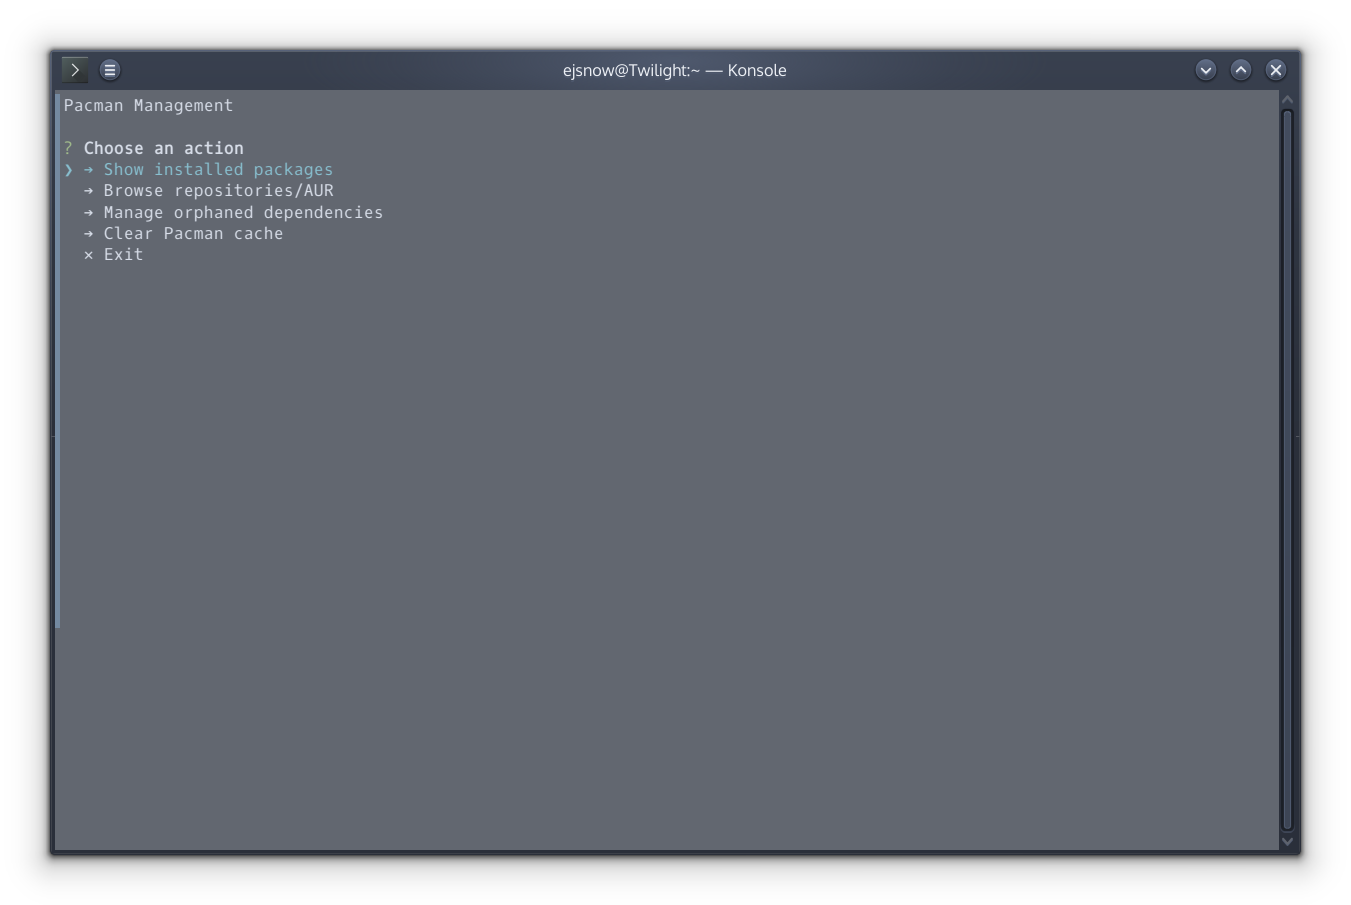
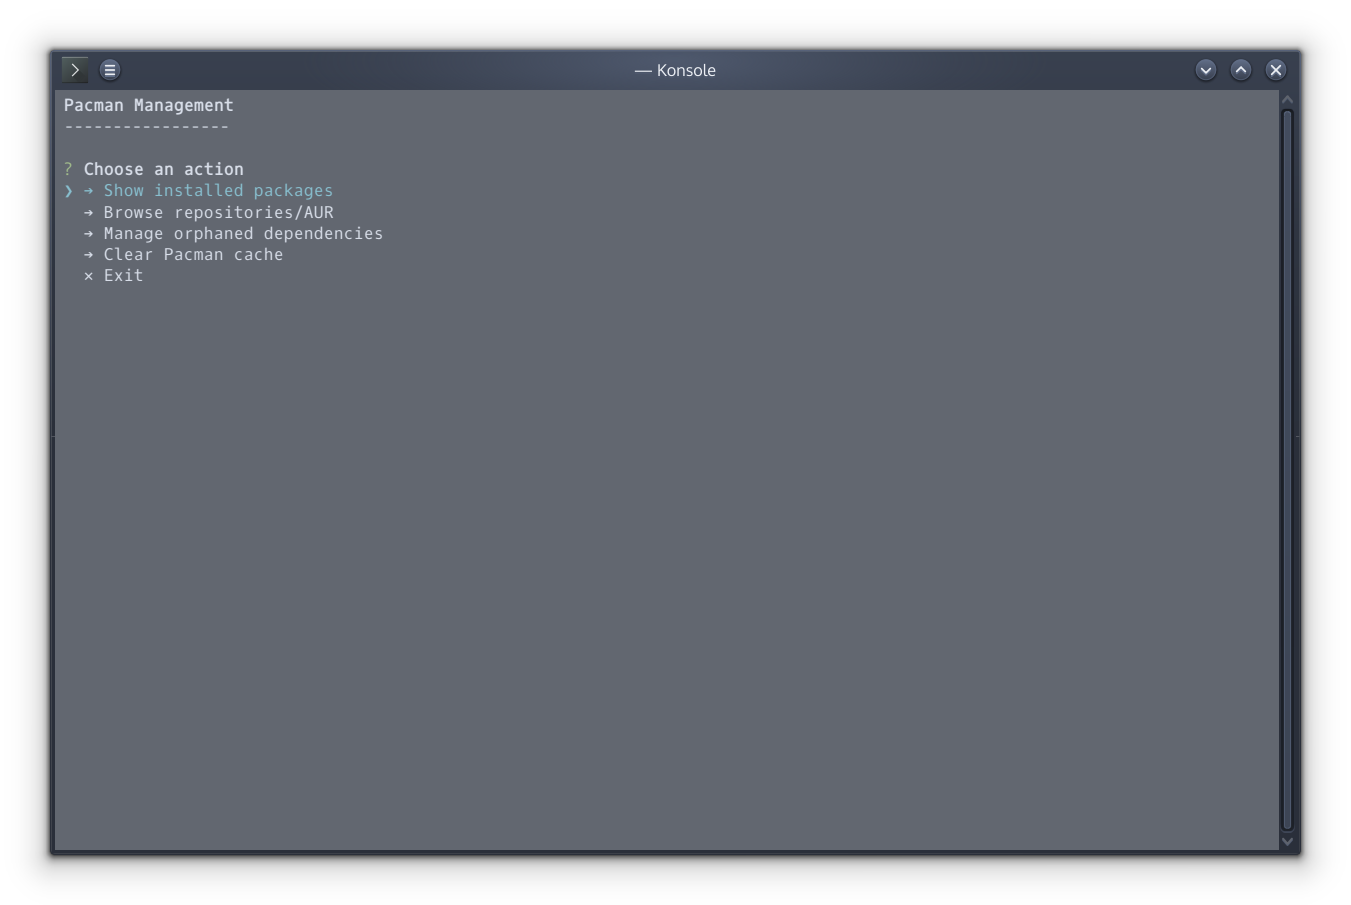
some updates to the pacman-manage blog post

Changed region(s): [[0.0311, 0.0928, 0.2798, 0.6807], [0.4041, 0.0619, 0.5907, 0.0928], [0.1244, 0.0928, 0.1554, 0.1238]]

diff --git a/blog/2026-11-14-pacman-manage.md b/blog/2026-11-14-pacman-manage.md
@@ -2,7 +2,7 @@
 layout: page.html
 title: pacman-manage - A Bash TUI frontend for pacman and yay
 date: 2026-11-14
-lastUpdated: Nov 14, 2026
+lastUpdated: Nov 17, 2026
 tags: blog
 ---
 
@@ -21,15 +21,15 @@ My goal was rather simple: Make a friendly TUI for key package management operat
 * Browsing repositories/AUR and locally installed packages
 * View/uninstall orphan dependencies
 * Refresh mirrorlist (not implemented yet)
-* Clear the Pacman cache (also not implemented yet)
+* Clear the Pacman package cache
 
 For now, it's fairly bare-bones, and I intend to keep it fairly minimal while still having the important features. AUR operations are also supported through yay (if you want support for xyz other AUR helper, feel free to PR support, though right now the script is hard-coded for yay).
 
-Mirrorlist refreshing and cache clearing are the two main things I haven't implemented yet. I also plan to improve the UX significantly (right now, it's kind of terrible; menu navigation requires arrow keys + Enter, and when performing a pacman operation, as soon as it completes, the previous menu re-appears, clearing the output from pacman).
+As of 2026-11-17, the only notable thing missing from the script is mirrorlist refreshing. The TUI could use some improvements, but it's fairly usable (if slightly annoying to navigate). I used [bash-tui-toolkit](https://github.com/timo-reymann/bash-tui-toolkit) to build the menus. It's incredibly (and scarily) easy to use, and probably preserved my (already questionable) sanity (from all I've seen, writing a TUI from scratch in Bash is quite painful).
 
-Speaking of the TUI, I honestly was lazy and used [bash-tui-toolkit](https://github.com/timo-reymann/bash-tui-toolkit) to build the menus. It's incredibly (and scarily) easy to use, and probably preserved my (already questionable) sanity (from all I've seen, writing a TUI from scratch in Bash is quite painful).
+The script can be found on Github at [EJSnow/pacman-manage](https://github.com/EJSnow/pacman-manage). If you find it useful, give it a star!
 
-Some screenshots:
+Screenshots:
 
 <div class="masonry-grid gallery">
    <div class="masonry-item">
@@ -42,8 +42,14 @@ Some screenshots:
 ![Browsing installed packages (with search!)](/images/pacman-manage-2.png)
 
    </div>
+   <div class="masonry-item">
+
+![Unneeded dependency removal](/images/pacman-manage-3.png)
+
+   </div>
+   <div class="masonry-item">
+
+![Cache clearing](/images/pacman-manage-4.png)
+
+   </div>
 </div>
-
-![Menu for managing orphan dependencies](/images/pacman-manage-3.png)
-
-The script is on GitHub: [EJSnow/pacman-manage](https://github.com/EJSnow/pacman-manage). If you find it useful, give it a star!
